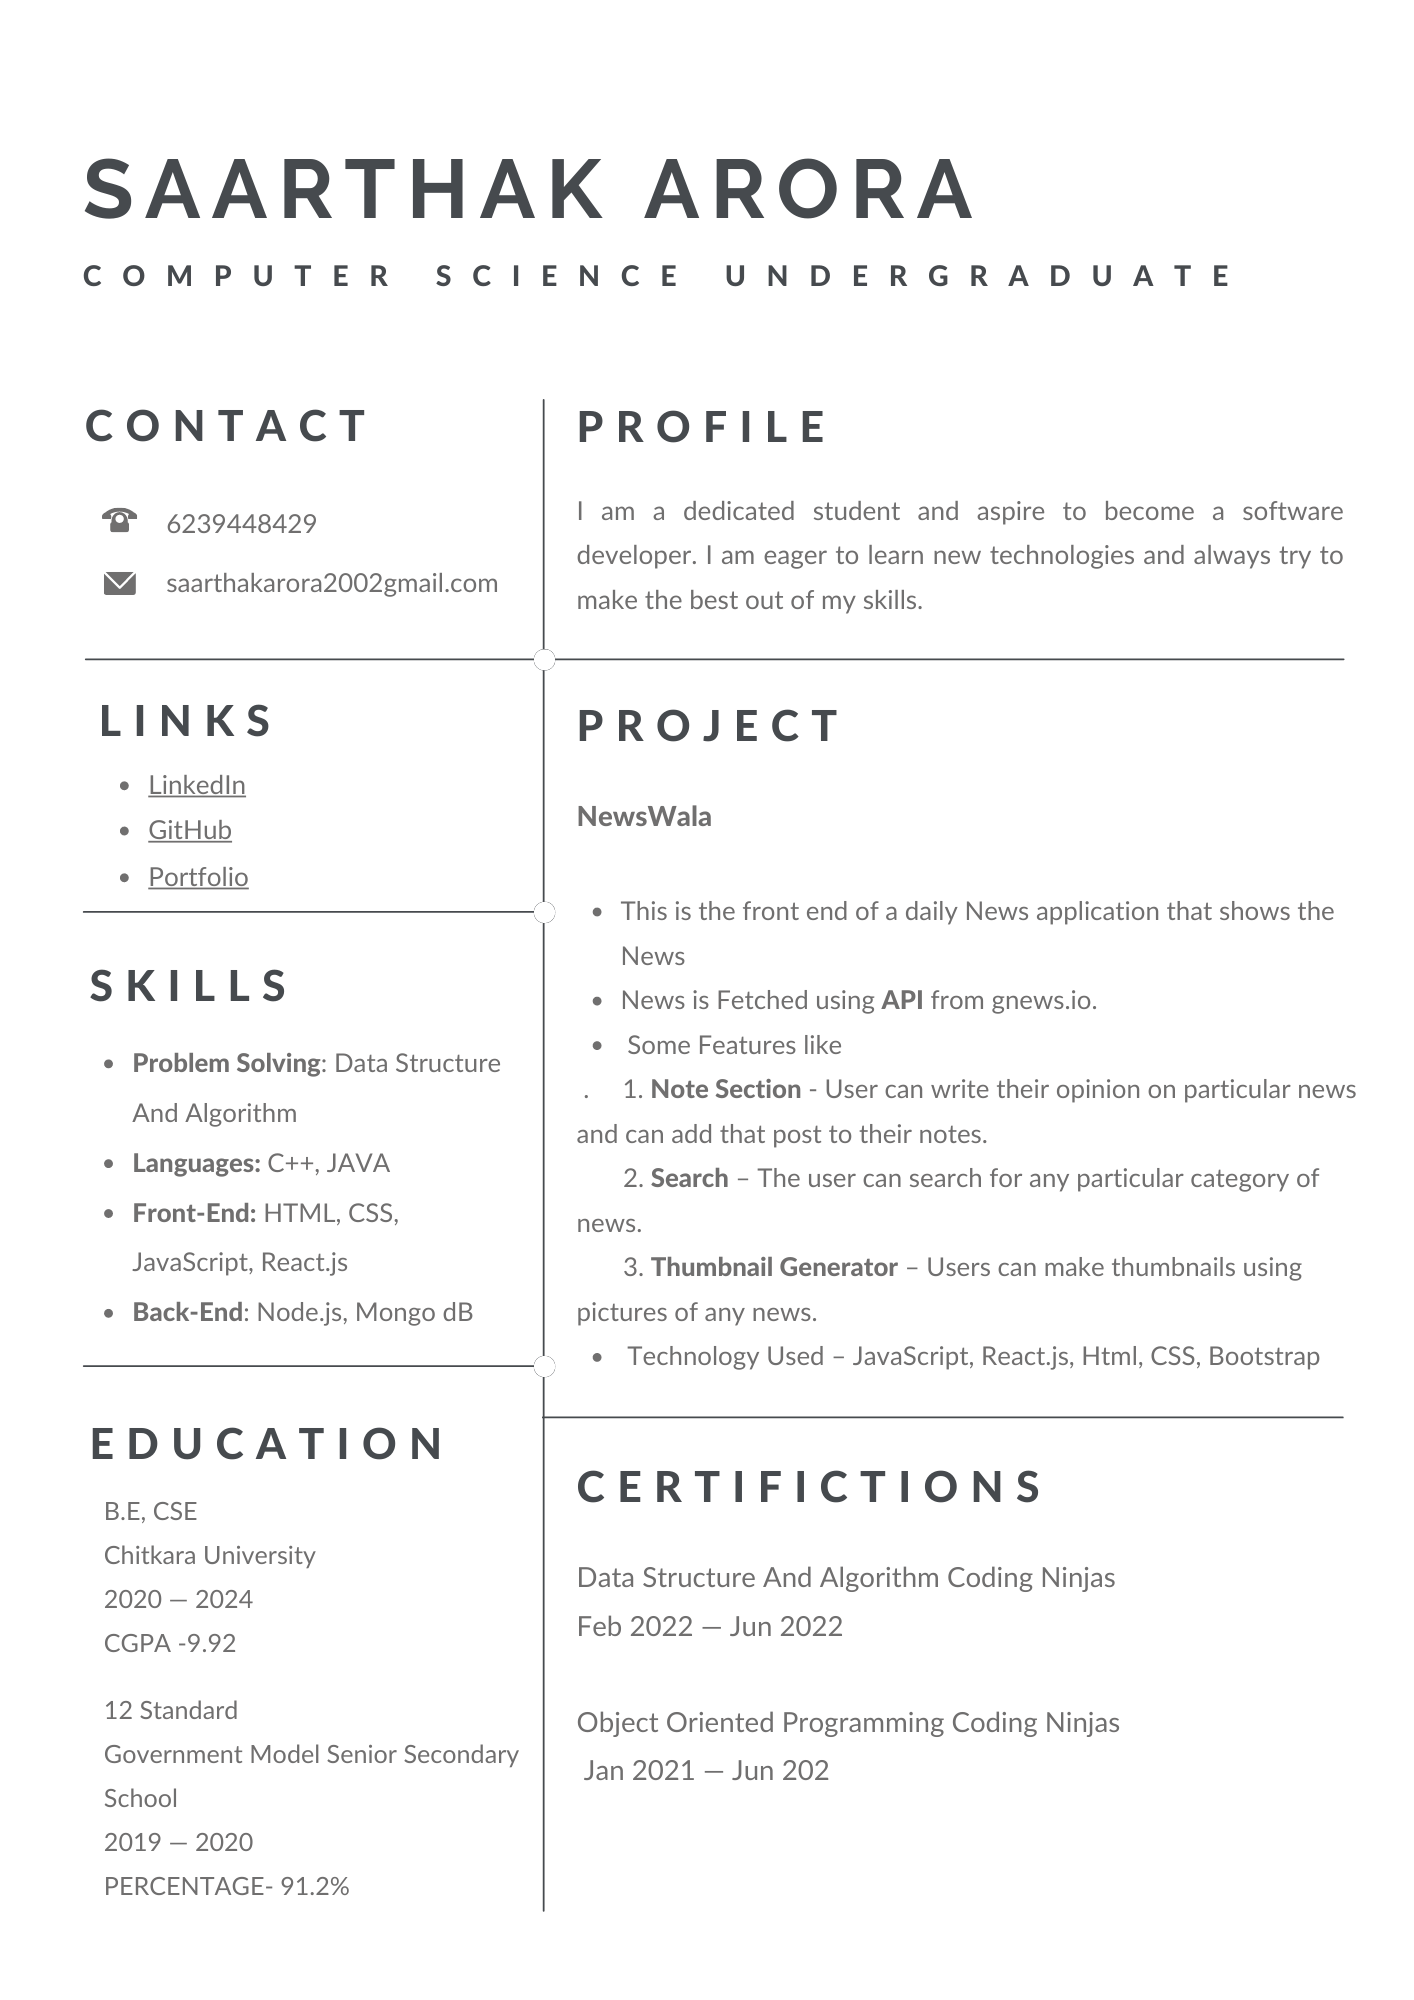
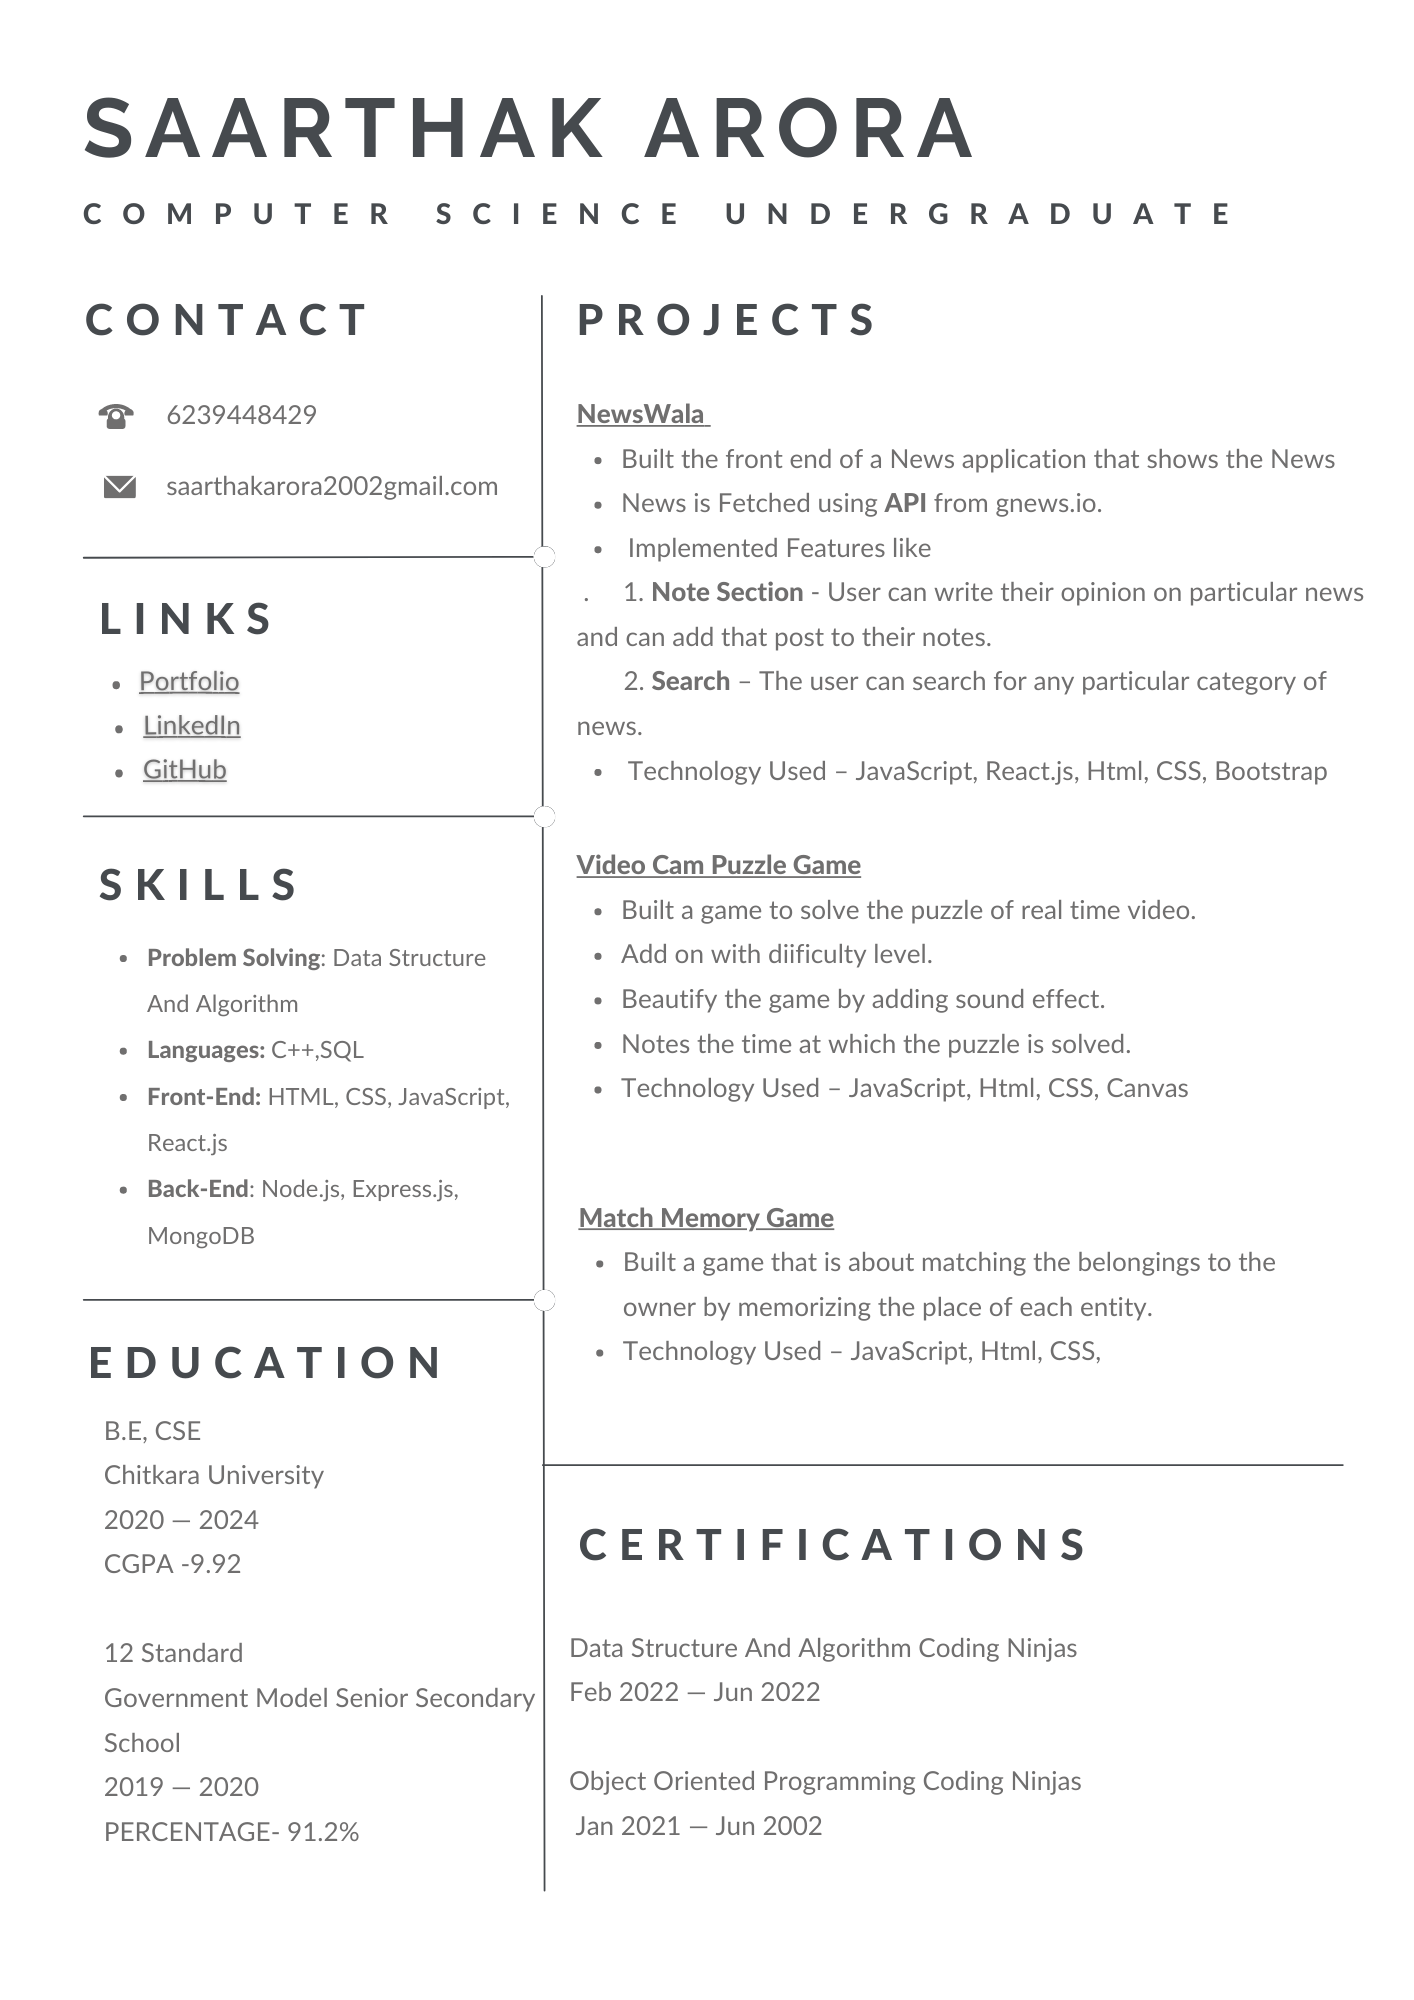
improved

diff --git a/src/pages/Skills.js b/src/pages/Skills.js
@@ -21,21 +21,22 @@ const Skills = () => {
     <div className='right1'>
     <div className='skills'>
     
+        <img alt='' src='https://upload.wikimedia.org/wikipedia/commons/4/41/DSA_Logo.png'/> 
         <img alt='' src='https://upload.wikimedia.org/wikipedia/commons/thumb/1/18/ISO_C%2B%2B_Logo.svg/64px-ISO_C%2B%2B_Logo.svg.png'/>
         <img alt='' src='https://upload.wikimedia.org/wikipedia/commons/thumb/9/99/Unofficial_JavaScript_logo_2.svg/64px-Unofficial_JavaScript_logo_2.svg.png'/>
-        <img alt='' src='https://upload.wikimedia.org/wikipedia/commons/thumb/6/61/HTML5_logo_and_wordmark.svg/64px-HTML5_logo_and_wordmark.svg.png'/>
         <img alt='' src='https://upload.wikimedia.org/wikipedia/commons/thumb/a/a7/React-icon.svg/64px-React-icon.svg.png'/> 
+        <img alt='' src='https://upload.wikimedia.org/wikipedia/commons/thumb/6/61/HTML5_logo_and_wordmark.svg/64px-HTML5_logo_and_wordmark.svg.png'/>
         <img alt='' src='https://upload.wikimedia.org/wikipedia/commons/thumb/d/d5/CSS3_logo_and_wordmark.svg/64px-CSS3_logo_and_wordmark.svg.png'/> 
-        <img alt='' src='https://upload.wikimedia.org/wikipedia/commons/4/41/DSA_Logo.png'/> 
-        <img alt='' src='https://upload.wikimedia.org/wikipedia/ml/2/2e/Java_Logo.svg'/> 
-        <img alt='' src='https://www.seekpng.com/png/detail/80-803529_vector-javascript-node-js-jpg-black-and-white.png'/>
-        <img alt='' src='https://miro.medium.com/max/1400/1*XP-mZOrIqX7OsFInN2ngRQ.png'/>
+        <img alt='' src='https://i0.wp.com/learn.onemonth.com/wp-content/uploads/2019/07/image2-1.png?fit=600%2C315&ssl=1'/> 
+        <img alt='' src='https://play-lh.googleusercontent.com/GhQVJ0wdeWzNz1k5jlb8mKNAY4qLgoF0MB8m_Oxor9KSYmq-Q4ShP43I8HLL01BVRIGT'/>
+        <img alt='' src='https://adware-technologies.s3.amazonaws.com/uploads/technology/thumbnail/20/express-js.png'/>
+
        
     </div>
     </div>    
 
 </div>
-
+<div className='baseS'><h1>गुरगृहँ गए पढ़न रघुराई। अलप काल बिद्या सब आई।।</h1></div>
     </>
   )
 }

diff --git a/src/Data/ProjectData.js b/src/Data/ProjectData.js
@@ -1,35 +1,35 @@
-import p1 from '../ImageAssets/NewsP.png';
-import p2 from '../ImageAssets/RamRathGame.png';
-import p3 from '../ImageAssets/NewsP.png';
-import p4 from '../ImageAssets/NewsP.png';
+import p1 from '../ImageAssets/NewsWalaPic.png';
+import p2 from '../ImageAssets/PuzzleGame.png';
+import p3 from '../ImageAssets/MemoLink.png';
+import p4 from '../ImageAssets/ComingSoon.webp';
 
 const ProjectsData = [
     {
         ProjectName : 'NewsWala',
         img : p1,
-        gitLink : '',
+        gitLink : 'https://github.com/Saarthak-Arora/NewsApp',
         docLink : '',
-        livLink : '',
+        livLink : 'https://saarthak-arora.github.io/NewsApp',
 
     },
     {
-        ProjectName : 'NewsWala',
+        ProjectName : 'VideoCamPuzzle',
         img : p2,
-        gitLink : '',
+        gitLink : 'https://github.com/Saarthak-Arora/VideoCamPuzzleGame',
         docLink : '',
-        livLink : '',
+        livLink : 'https://saarthak-arora.github.io/VideoCamPuzzleGame',
 
     },
     {
-        ProjectName : 'NewsWala',
+        ProjectName : 'MemoLink',
         img : p3,
-        gitLink : '',
+        gitLink : 'https://github.com/Saarthak-Arora/MemoryLinkGame',
         docLink : '',
-        livLink : '',
+        livLink : 'https://saarthak-arora.github.io/MemoryLinkGame',
 
     },
     {
-        ProjectName : 'NewsWala',
+        ProjectName : 'Ecommerce(Backend Ready)',
         img : p4,
         gitLink : '',
         docLink : '',

diff --git a/src/pages/Projects.js b/src/pages/Projects.js
@@ -9,19 +9,22 @@ import ProjectsData from "../Data/ProjectData";
 const Projects = () => {
   return (
     <>
+    
+   
     <div className="containerP">
       <div className="cards-container">
 
       {
         ProjectsData.map((val)=>{
-          return (<div className="card">
+          return (
+            <div className="card">
           <img className='Pimg' src={val.img} alt="Image" />
           <div className="card-content">
-            <h2>{val.ProjectName}</h2>
+            <h4>{val.ProjectName}</h4>
             <p>
               {/* <a target={'__blank'} href={val.docLink}><button>Document</button></a> */}
               <a target={'__blank'} href={val.gitLink}><button>Source Code</button></a>
-              <a target={'__blank'} href={val.liveLink}><button>Live Link</button></a>
+              <a target={'__blank'} href={val.livLink}><button>Live Link</button></a>
             </p>
           </div>
         </div>
@@ -35,6 +38,7 @@ const Projects = () => {
       <div className="conh">
         <FaHands className="hands" />
       </div> 
+     <div className="base"> <h1>प्रभु की कृपा भयउ सब काजू, जनम हमार सुफल भा आजू</h1></div>
     </>
   );
 };

diff --git a/src/pages/project.css b/src/pages/project.css
@@ -2,7 +2,7 @@
     width: 80%;
     margin: auto;
     height: 70%;
-    margin-top:0.5% ;
+    /* margin-top:0.5% ; */
   }
 .cards-container {
     display: flex;
@@ -66,6 +66,13 @@
     box-shadow: none;
   }
 
+  .base{
+    margin-top:.5%;
+    margin-left: 27%;
+    position: absolute;
+    opacity: .1;
+  }
+
   
   @media screen and (max-width: 625px) {
     .containerP {
@@ -79,6 +86,13 @@
     
     .card {
       margin: .5rem;
+    }
+    .base{
+      margin-top:8%;
+      opacity: 0.1;
+      position:absolute;
+     margin-left: -0.5px;
+     justify-content: center;
     }
   }
 
@@ -128,6 +142,13 @@
         margin-top:-2% ;
         
         
+    }
+    .base{
+      margin-top:25%;
+      opacity: 0.1;
+      position:absolute;
+     margin-left: -0.5px;
+     
     }
    
 }

diff --git a/src/pages/Resume.js b/src/pages/Resume.js
@@ -9,13 +9,14 @@ const Resume = () => {
   return (
     <>
       <div className="containerr">
-      <div className="left">
+      {/* <div className="left">
       <video className="video" src={ResumeVideo} width="750" height="500" controls>
      </video>
-     {/* <button>DownLoad Resume</button> */}
-      </div>
+    
+      </div> */}
       <div className="rightr">
         <div className="rfile">
+        
         <img className="resume" src={resume} alt="" />
 
         </div>

diff --git a/src/pages/skills.css b/src/pages/skills.css
@@ -47,6 +47,13 @@
     
 }
 
+.baseS{
+    margin-top:8%;
+    margin-left: 27%;
+    position: absolute;
+    opacity: 0.1;
+  }
+
 
 @keyframes disp {
     20%{transform: translateX(-50px);}
@@ -94,5 +101,12 @@
         width: 200px;
         height: 200px;
     }
+
+    .baseS{
+        margin-top:8%;
+        opacity: 0.1;
+        position:absolute;
+       margin-left: -0.5px;
+      }
 }
 

diff --git a/src/pages/Resume.css b/src/pages/Resume.css
@@ -1,7 +1,7 @@
 .containerr{
-    margin-left: 4%;
+    margin-left: 20%;
     display: flex;
-    margin-left: 10%;
+   
     padding: 2%;
     
    
@@ -22,9 +22,10 @@
 }
 
 .rightr{
-    flex:1;
+    /* flex:1; */
     /* padding: 5%; */
     /* background-color: yellow; */
+
     justify-content: center;
     align-items: center;
     border: 2px solid orange;

diff --git a/src/components/Navbar.js b/src/components/Navbar.js
@@ -61,7 +61,7 @@ const Navbar = () => {
     </nav>
 </div>
  <Routes >
-        <Route path='' element={<HomeContent/>}/>
+        <Route path='/' element={<HomeContent/>}/>
        <Route path='src/pages/Projects' element={<Projects/>}/>
        <Route path='src/pages/Skills' element={<Skills/>}/>
        <Route path='src/pages/Resume' element={<Resume/>}/>
